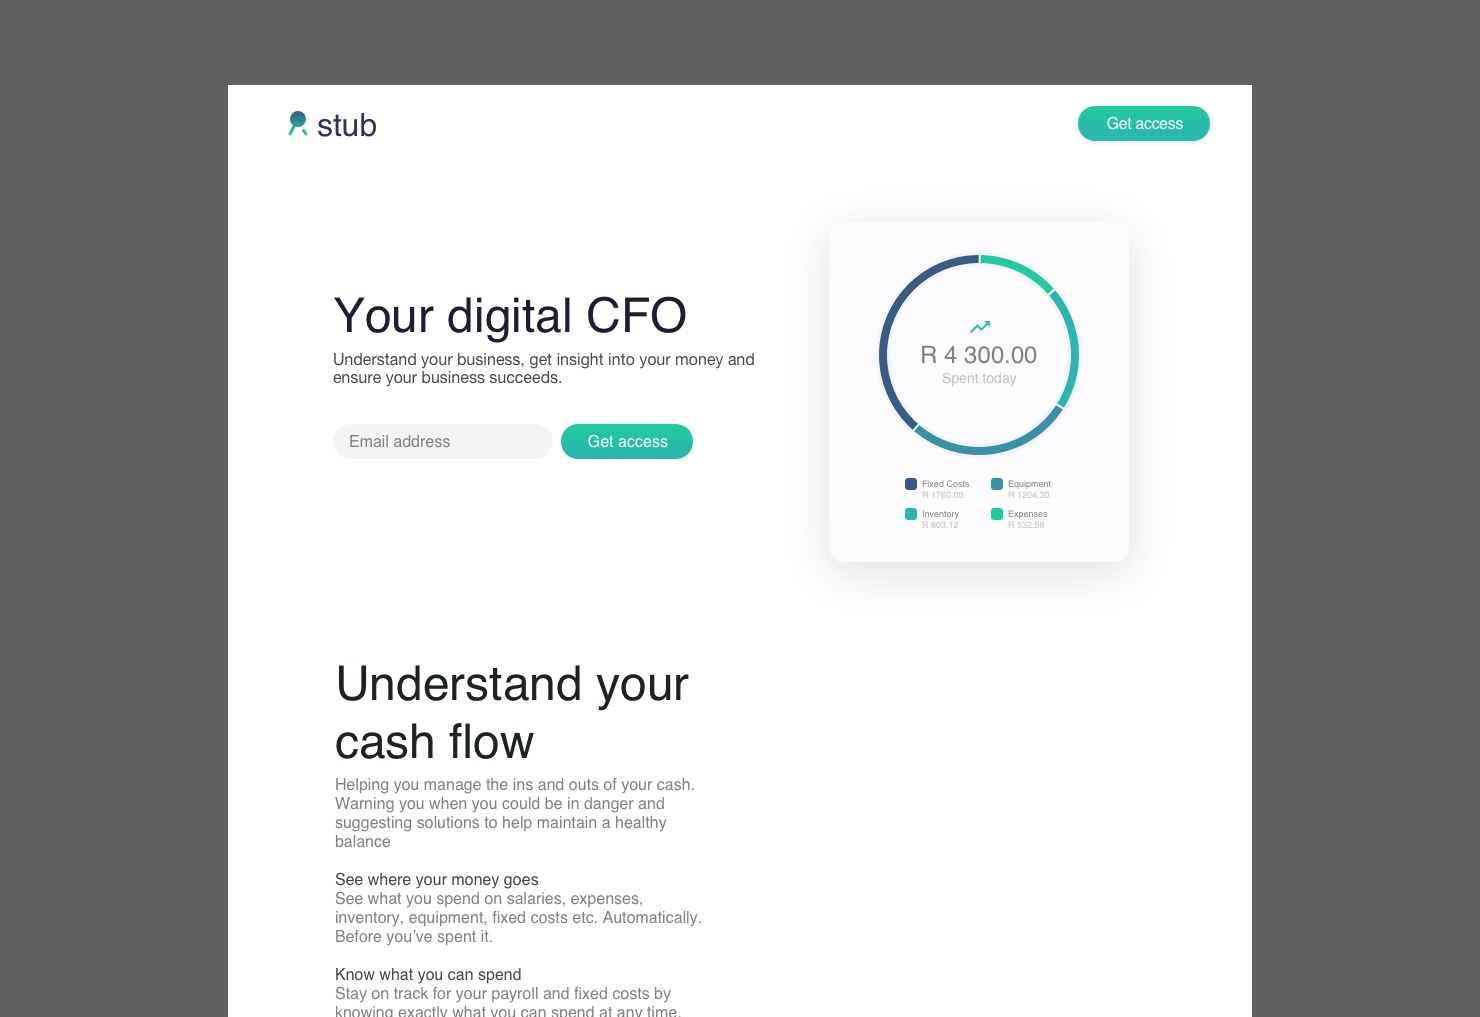
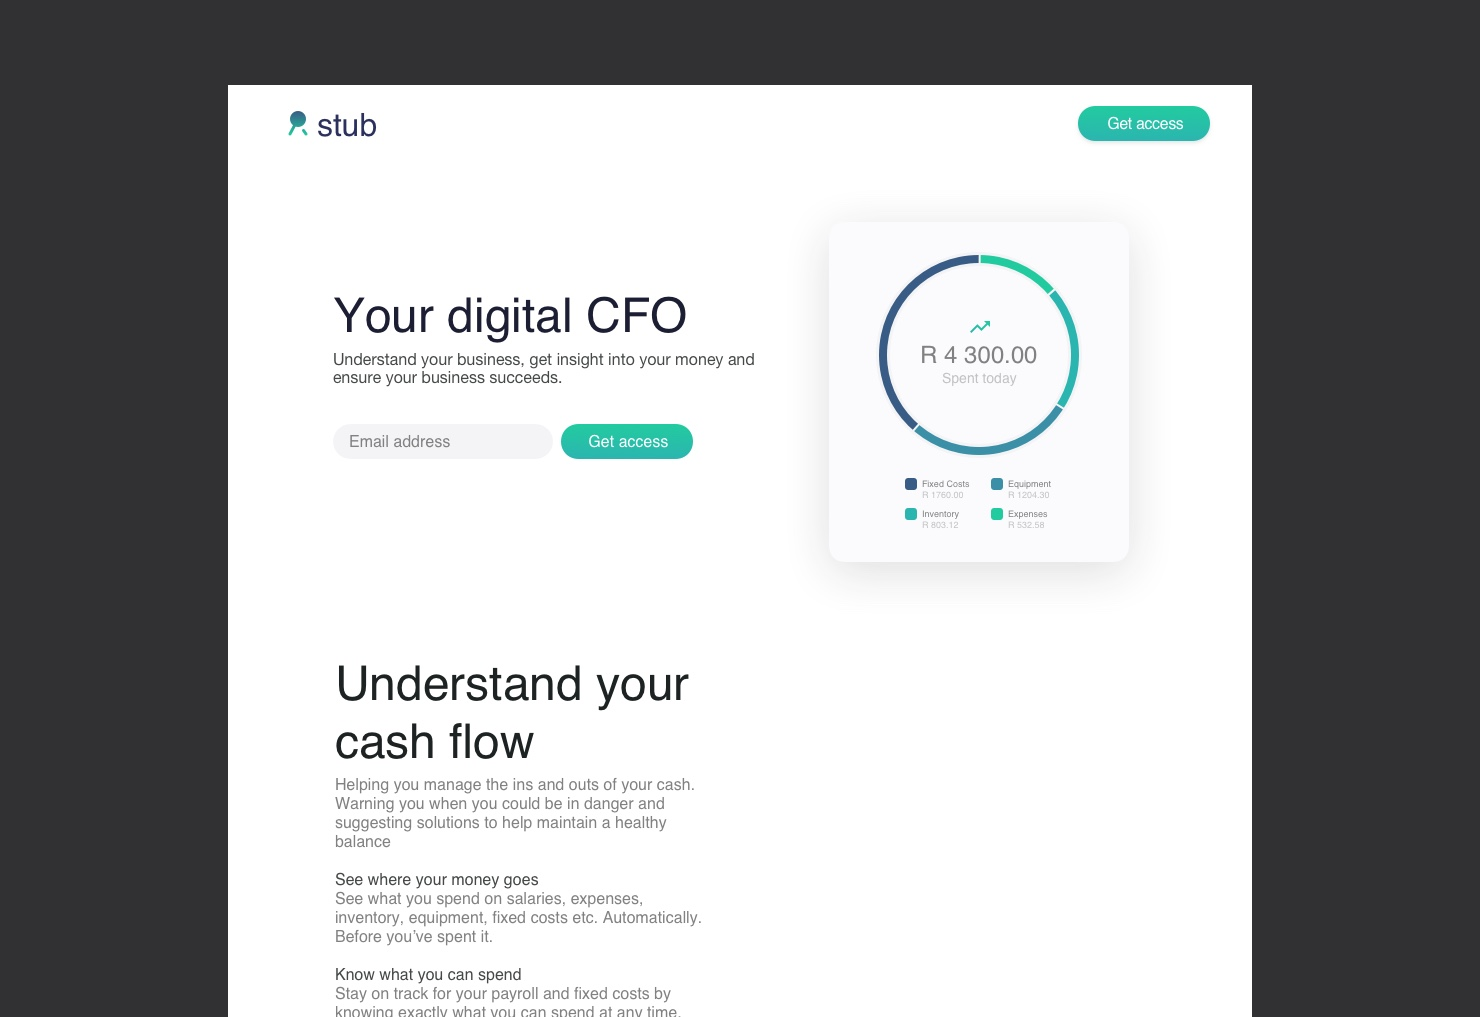
better colours

diff --git a/css/main.scss b/css/main.scss
@@ -65,11 +65,11 @@
 }
 
   :root {
-    --background: #222222;
-    --elevated-bg: #222222;
+    --background: #1E1E20;
+    --elevated-bg: #1E1E20;
     --primary: #FFFFFF;
     --secondary: #EEEEEE;
-    --tertiary: #999999;
+    --tertiary: #81818F;
     --color-1: #69AEFF;
   }
 
